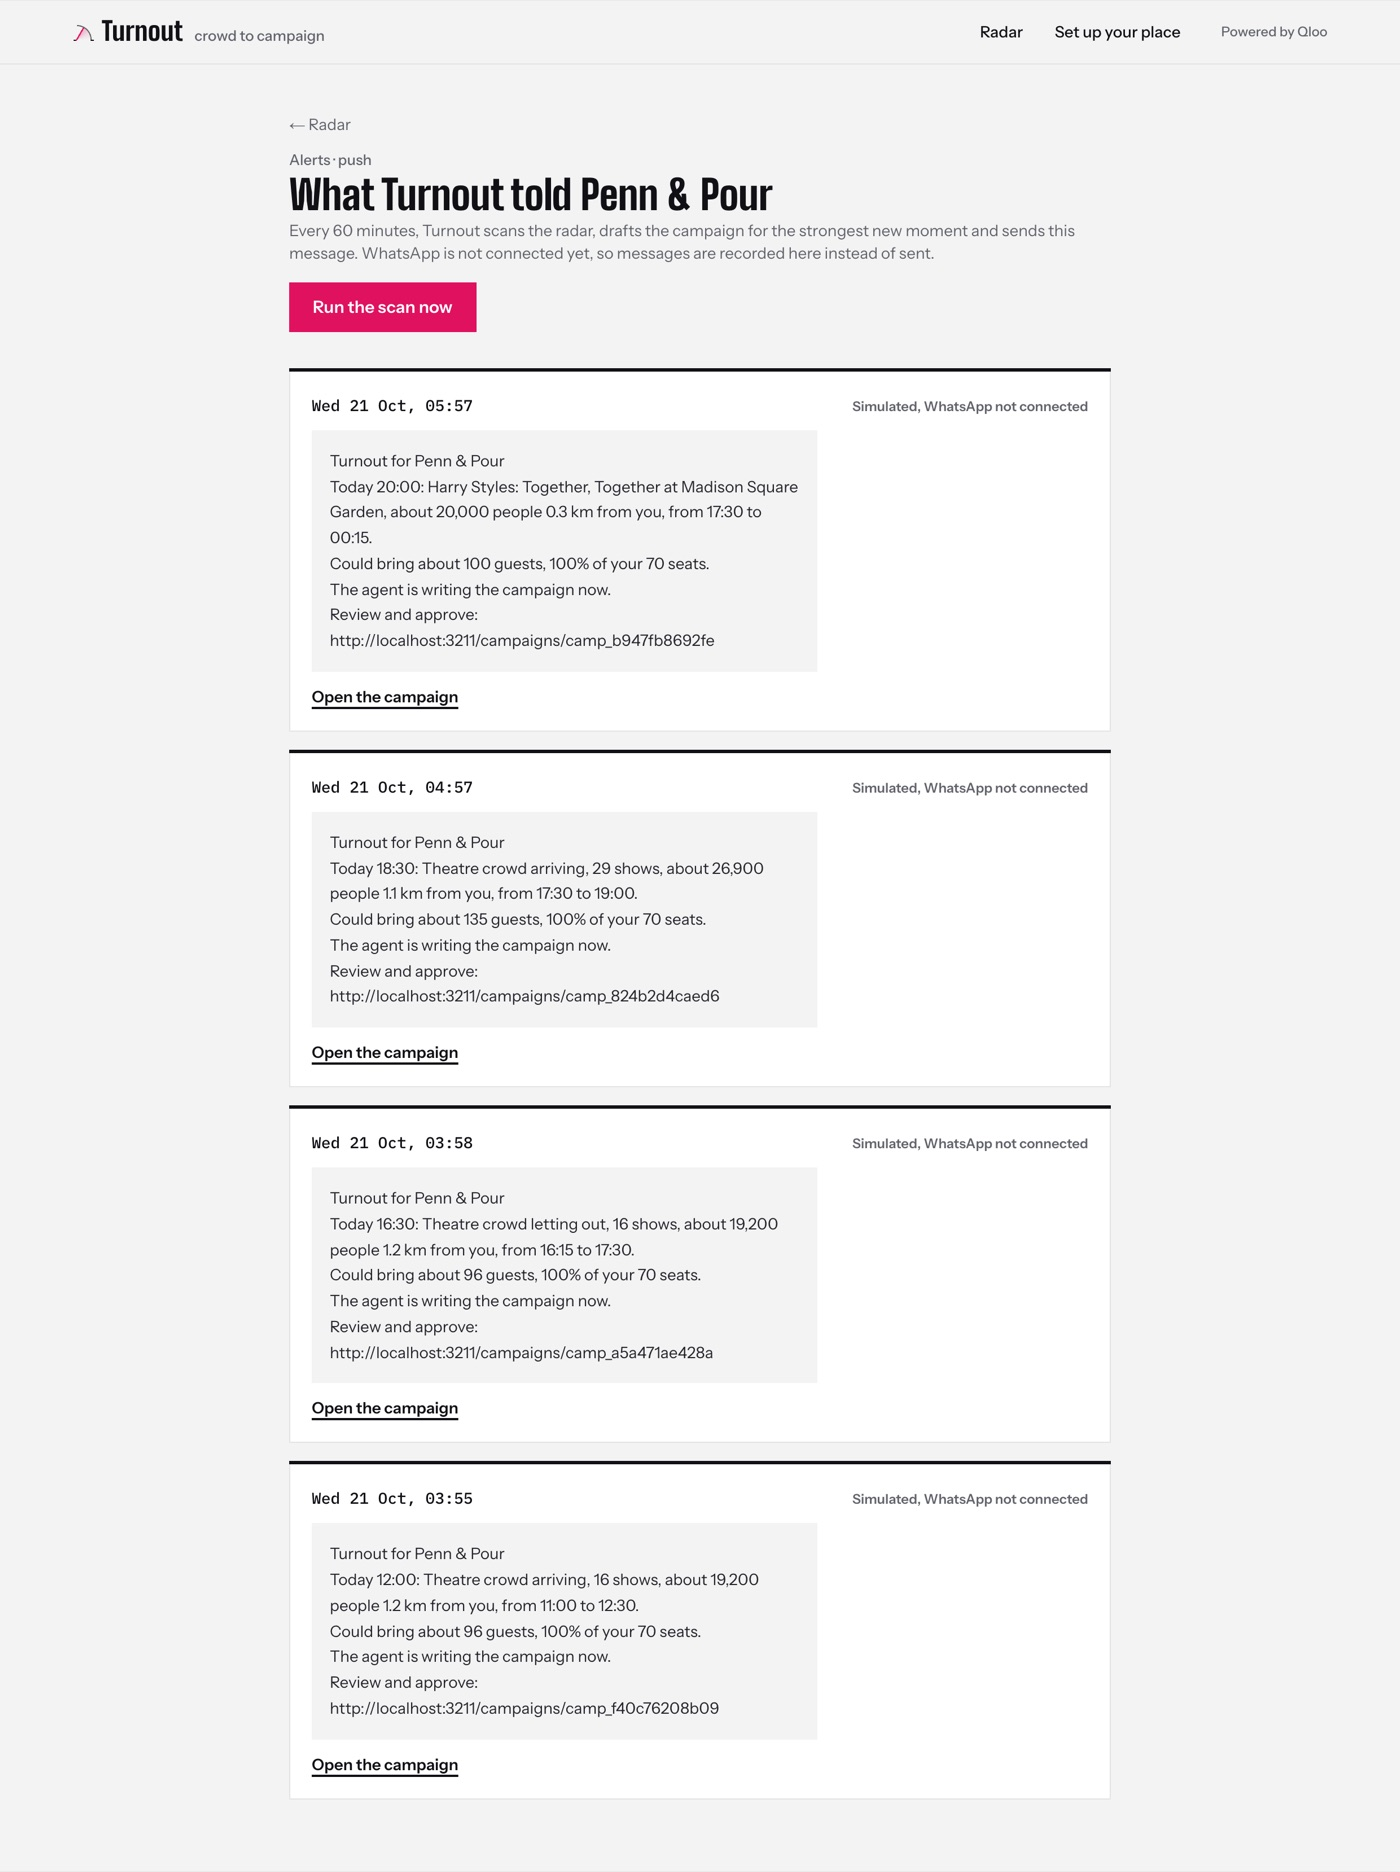
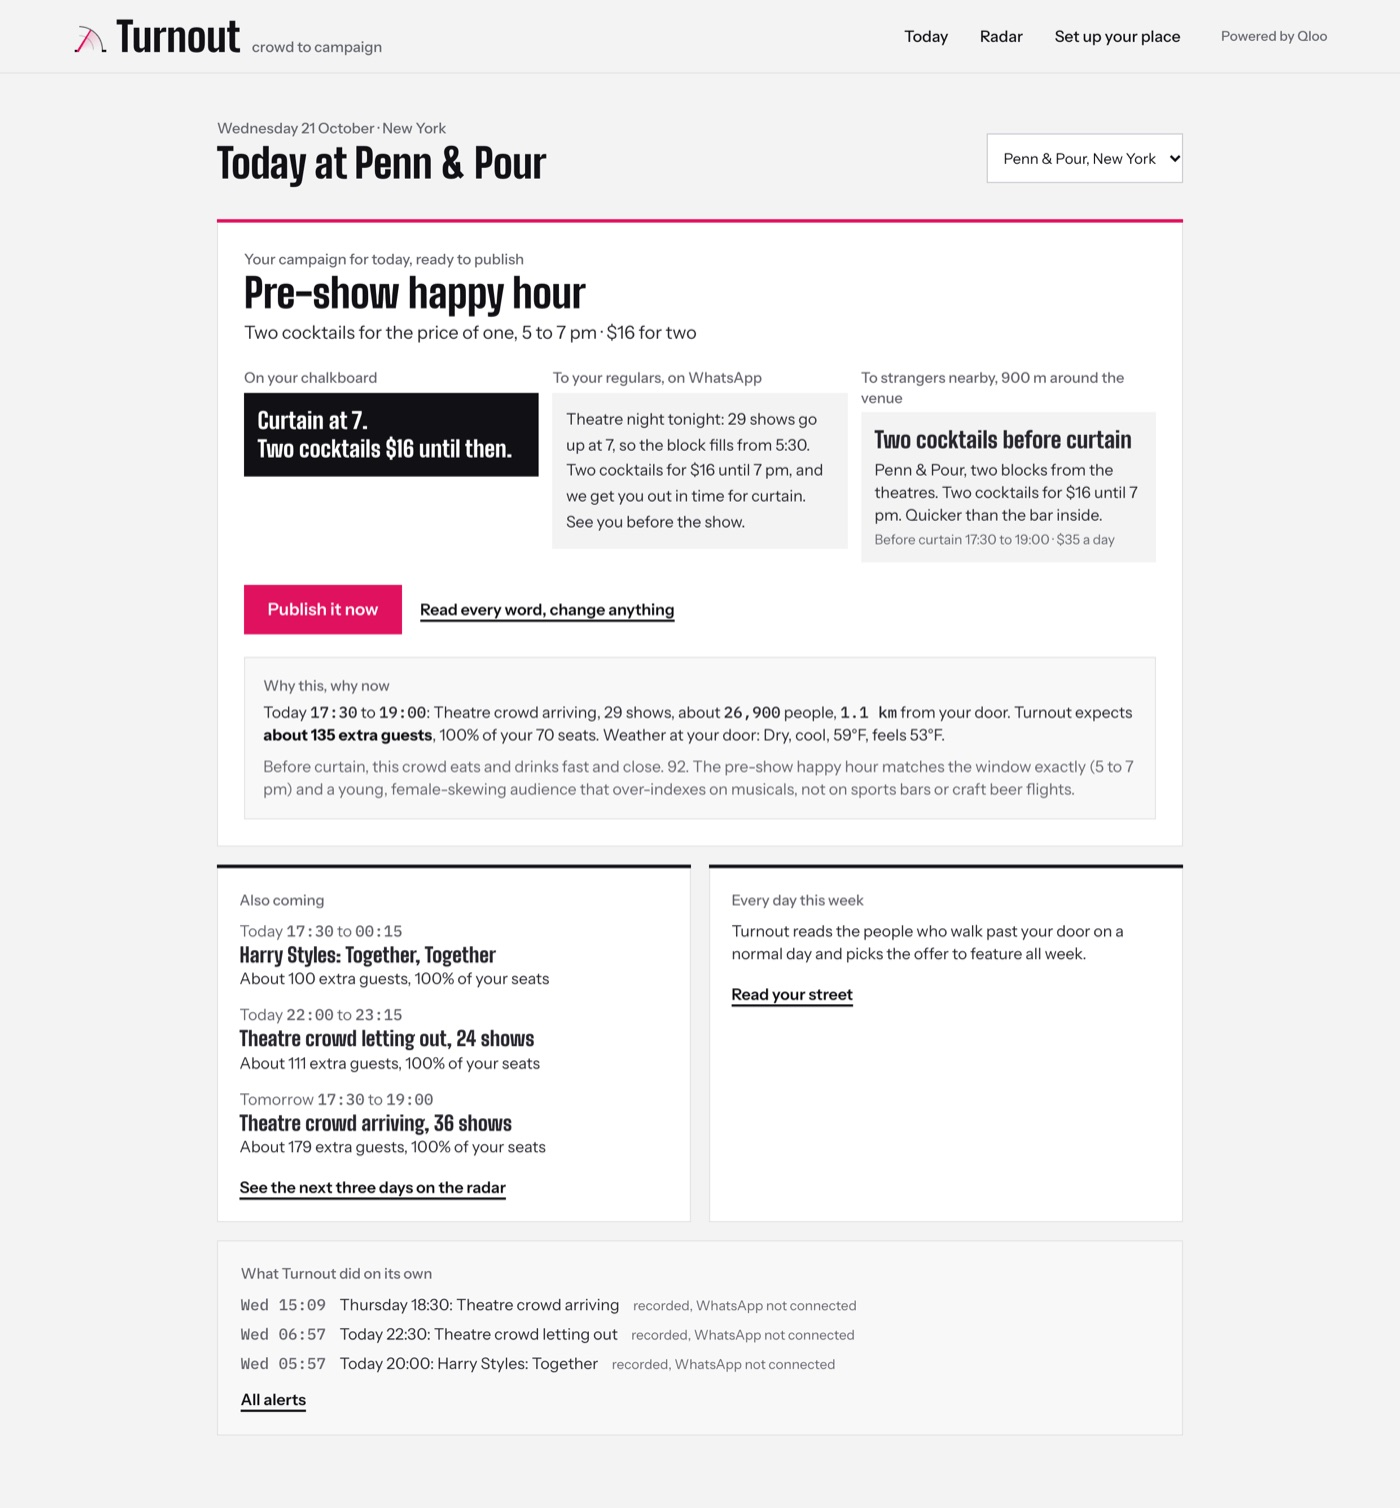
Today: the reason reads in whole sentences; journey step 5 shows the Today page, campaign first

diff --git a/docs/journey/index.html b/docs/journey/index.html
@@ -266,7 +266,7 @@ const META=[
  {id:"s2",phase:"arrive",trig:"pull",status:"done",url:"turnout.app/start",code:"src/server/merchants/onboarding.ts",shot:"s2",cta:"Locate my place and read my offers",screen:"start",calls:[{svc:"OpenStreetMap"}]},
  {id:"s3",phase:"arrive",trig:"pull",status:"done",url:"turnout.app/start/confirm",code:"src/server/qloo/tags.ts",shot:"s3",cta:"Confirm and open my radar",screen:"confirm",calls:[{svc:"Qloo",api:"GET /v2/tags"}]},
  {id:"s4",phase:"night",trig:"pull",status:"done",url:"turnout.app/radar",code:"src/server/events/radar.ts",shot:"s4",cta:"Qualify this crowd with Qloo",screen:"radar",calls:[{svc:"Ticketmaster"},{svc:"ESPN"},{svc:"NYC Open Data"},{svc:"Qloo",api:"GET /search · urn:entity:brand"},{svc:"Qloo",api:"GET /v2/insights · urn:heatmap"},{svc:"Open-Meteo"}]},
- {id:"s5",phase:"night",trig:"push",status:"wip",url:"turnout.app/alerts",code:"src/server/agent/scan.ts",shot:"s5",cta:"Open the campaign",screen:"notify",calls:[{svc:"Ticketmaster"},{svc:"ESPN"},{svc:"Qloo",api:"steps 6 + 7"},{svc:"Claude"},{svc:"WhatsApp"}]},
+ {id:"s5",phase:"night",trig:"push",status:"wip",url:"turnout.app/today",code:"src/app/today/page.tsx",shot:"s5",cta:"Publish it now",screen:"notify",calls:[{svc:"Ticketmaster"},{svc:"ESPN"},{svc:"Qloo",api:"steps 6 + 7"},{svc:"Claude"},{svc:"WhatsApp"}]},
  {id:"s6",phase:"night",trig:"pull",status:"done",url:"turnout.app/campaigns/new",code:"src/server/qloo/crowd.ts",shot:"s6",cta:"Draft the campaign",screen:"crowd",calls:[{svc:"Qloo",api:"GET /search"},{svc:"Qloo",api:"GET /v2/insights · urn:demographics"},{svc:"Qloo",api:"GET /v2/insights · urn:tag"},{svc:"Qloo",api:"GET /v2/insights · urn:entity:place"},{svc:"Qloo",api:"GET /v2/insights · urn:entity:brand"},{svc:"Qloo",api:"urn:entity:place + filter.tags"}]},
  {id:"s7",phase:"night",trig:"pull",status:"wip",url:"turnout.app/campaigns/camp_7d4b6d90b536",code:"src/server/agent/run.ts",shot:"s7",cta:"Approve and publish",screen:"campaign",calls:[{svc:"Qloo",api:"cache"},{svc:"Open-Meteo"},{svc:"Claude"}]},
  {id:"s8",phase:"night",trig:"pull",status:"wip",url:"turnout.app/campaigns/camp_7d4b6d90b536",code:"src/server/channels/",shot:"s8",cta:"Next week: the weekly pulse",screen:"published",calls:[{svc:"Snapchat"},{svc:"WhatsApp"},{svc:"Google"},{svc:"storefront"},{svc:"screen"}]},

diff --git a/docs/journey/i18n.fr.js b/docs/journey/i18n.fr.js
@@ -115,8 +115,8 @@ window.I18N_FR = {
     s5: {
       title: "Recevoir l'alerte, campagne déjà prête",
       who: "le passage horaire trouve un moment qui vaut une campagne et dont personne n'a encore été prévenu",
-      sees: "Un message WhatsApp : le moment, sa taille à l'échelle de la salle, l'offre choisie par l'agent et un lien pour valider. Ce matin pour Penn & Pour : « Theatre crowd arriving, 16 shows at 12:00, about 19,200 people 1.2 km from you. Could bring about 96 guests, 100% of your 70 seats. Campaign ready. » Un geste pour relire, un autre pour valider.",
-      decides: "Le moment où le commerçant apprend qu'une foule arrive, et quel moment reçoit sa campagne : le plus fort parmi les nouveaux, un seul par passage, pour que l'agent ne noie jamais le commerçant.",
+      sees: "Sur le téléphone, un message WhatsApp : le moment, sa taille à l'échelle de la salle, l'offre choisie par l'agent et un lien. Dans l'app, la page Today : la campagne d'abord, prête à publier, avec la ligne d'ardoise, le message aux habitués et la pub déjà écrits ; un seul bouton pour publier ; puis la raison en dessous, en chiffres (29 spectacles à 19 h, environ 26 900 personnes à 1,1 km, environ 135 clients en plus) et en preuves Qloo. Le commerçant comprend la campagne d'un coup d'œil ; l'explication est là pour qui la veut.",
+      decides: "Le moment où le commerçant apprend qu'une foule arrive, et quel moment reçoit sa campagne : le plus fort parmi les nouveaux, un seul par passage, pour que l'agent ne noie jamais le commerçant. Le commerçant ne décide qu'une chose : publier, ou changer un mot avant.",
       codeNote: "Construit. Le serveur lance le passage toutes les heures, et la page des alertes le lance à la demande. L'envoi WhatsApp s'active dès que Twilio est connecté ; en attendant, le message est enregistré sur la page des alertes.",
       next: "Connecter le bac à sable Twilio pour que le message arrive sur le téléphone du commerçant.",
       calls: [

diff --git a/docs/journey/i18n.en.js b/docs/journey/i18n.en.js
@@ -115,8 +115,8 @@ window.I18N_EN = {
     s5: {
       title: "Get alerted with the campaign ready",
       who: "the hourly scan finds a moment worth a campaign that nobody has been told about",
-      sees: "A WhatsApp message: the moment, its size for the room, the offer the agent chose, and a link to approve. This morning for Penn & Pour: “Theatre crowd arriving, 16 shows at 12:00, about 19,200 people 1.2 km from you. Could bring about 96 guests, 100% of your 70 seats. Campaign ready.” One tap to review, one to approve.",
-      decides: "When the merchant hears about the crowd, and which moment gets the campaign: the strongest new one, one per scan, so the agent never floods the merchant.",
+      sees: "On the phone, a WhatsApp message: the moment, its size for the room, the offer the agent chose, and a link. In the app, the Today page: the campaign first, ready to publish, with the chalkboard line, the note to regulars and the ad already written; one button to publish; then the reason underneath, in numbers (29 shows at 19:00, about 26,900 people 1.1 km away, about 135 extra guests) and in Qloo evidence. The merchant understands the campaign at a glance; the explanation is there for whoever wants it.",
+      decides: "When the merchant hears about the crowd, and which moment gets the campaign: the strongest new one, one per scan, so the agent never floods the merchant. The merchant decides one thing: publish, or change a word first.",
       codeNote: "Built. The server runs the scan every hour and the alerts page runs it on demand. The WhatsApp send is live once Twilio is connected; until then the message is recorded on the alerts page.",
       next: "Connect the Twilio sandbox so the message reaches the merchant's phone.",
       calls: [

diff --git a/src/app/today/page.tsx b/src/app/today/page.tsx
@@ -128,7 +128,7 @@ export default async function TodayPage({ searchParams }: { searchParams: Promis
               {dayOf(presenceWindow(next.event).start)} <span className="mono">{fmtTime.format(new Date(presenceWindow(next.event).arrive))}</span> to <span className="mono">{fmtTime.format(new Date(presenceWindow(next.event).leave))}</span>: {next.event.name}, about <span className="mono">{next.capacity.toLocaleString("en-US")}</span> people
               {next.event.origin === "tv" || next.event.origin === "calendar" ? " around you" : <>, <span className="mono">{next.distanceKm.toFixed(1)} km</span> from your door</>}. Turnout expects <b style={{ color: "var(--ink)" }}>about {next.potentialGuests} extra guests</b>, {Math.min(100, Math.round(next.fill * 100))}% of your {seats} seats.{weather ? ` Weather at your door: ${weather}.` : ""}
             </p>
-            <p className="mt-2" style={{ color: "var(--muted)" }}>{draft.rationale.length > 260 ? `${draft.rationale.slice(0, 257).trim()}…` : draft.rationale}</p>
+            <p className="mt-2" style={{ color: "var(--muted)" }}>{firstSentences(draft.rationale, 300)}</p>
           </div>
         </section>
       ) : next ? (
@@ -258,3 +258,16 @@ export default async function TodayPage({ searchParams }: { searchParams: Promis
     </main>
   );
 }
+
+// Whole sentences only, up to about `max` characters: a cut mid-word reads as a bug.
+function firstSentences(text: string, max: number): string {
+  if (text.length <= max) return text;
+  const parts = text.match(/[^.!?]+[.!?]+(\s|$)/g) ?? [text];
+  let out = "";
+  for (const p of parts) {
+    if ((out + p).length > max) break;
+    out += p;
+  }
+  return out.trim() || `${text.slice(0, max - 1).trim()}…`;
+}
+
